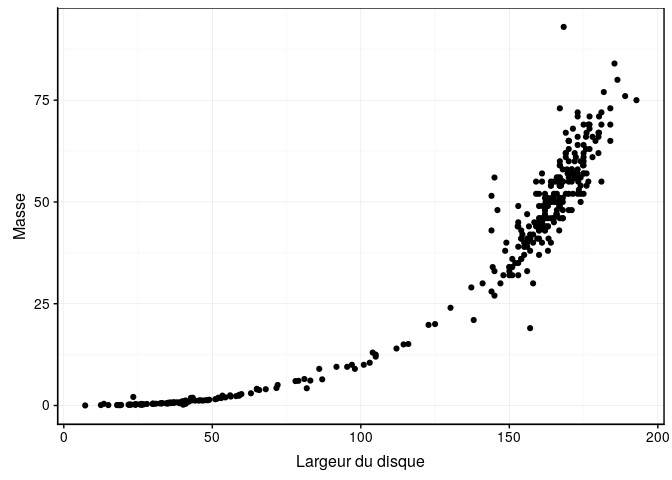
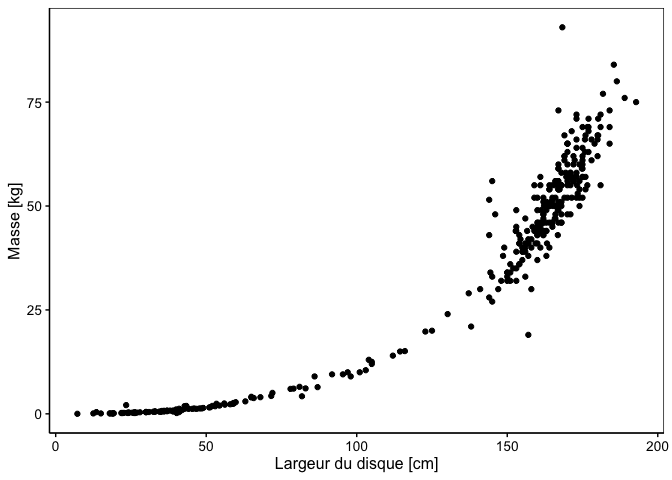
Relecture

diff --git a/README.md b/README.md
@@ -1,4 +1,5 @@
-Modélisation de la masse de raie à partir de la largeur du disque.
+Modélisation de la masse de la raie *Mobula thursoni* à partir de la
+largeur du disque
 ================
 
 <!--- DO NOT EDIT README.MD. EDIT ONLY README.RMD ----->
@@ -6,62 +7,59 @@ Modélisation de la masse de raie à partir de la largeur du disque.
 ## Contexte
 
 Rambahiniarison et son équipe (2018) ont étudié différents espèces de
-raies : *Mobula thurstoni*, *Mobula japanica*, *Mobula tarapacana*, et
-*Manta birostris*.
+raies : *Mobula thurstoni*, *Mobula japanica*, *Mobula tarapacana*,
+*Manta birostris* et *Manta alfredi*.
 
 *Pour en apprendre d’avantages, utilisez la référence présente dans la
 bibliographie.*
 
-Ces chercheurs ont décidé de mettre à dispositon les données relatives à
-cette recherche. Ils ont utilisé la plateforme
-[DRYAD](https://datadryad.org). Les données ont un D.O.I. et sont
-disponible via l’URL suivant <https://doi.org/10.5061/dryad.f3bm7>.
+Ces chercheurs ont décidé de mettre à disposition les données relatives
+à cette recherche. Ils ont utilisé la plateforme
+[DRYAD](https://datadryad.org). Les données ont un DOI et sont
+disponibles via l’URL suivante <https://doi.org/10.5061/dryad.f3bm7>.
 
-Les données brutes se trouve `data/raw`. Ces données sont les données
-brutes proposées par DRYAD. Les données de travail conseillés se nomme
-`data/growth.rds`. Ce jeu de données est obtenu avec le script R
-`dataset.R`
+Les données brutes se trouvent dans `data/raw`. Ces données sont telles
+que proposées par DRYAD. Les données de travail conseillées sont dans le
+fichier `data/growth.rds`. Ce jeu de données remanié est obtenu à l’aide
+du script R `dataset.R`
 
 ## Objectifs
 
 Utilisez les outils de modélisation afin de modéliser la masse de
-*Mobula thurstoni* en fonction de la largeur du disque.
-
-La figure ci-dessus présente la masse de *Mobula thurstoni* en fonction
-de la largeur du disque.
+*Mobula thurstoni* en fonction de la largeur du disque (voir figure
+ci-dessous).
 
 ``` r
 read("data/growth.rds") %>.%
   chart(., body_weight ~ dw) +
   geom_point() +
-  labs(y = "Masse", x = "Largeur du disque")
+  labs(y = "Masse [kg]", x = "Largeur du disque [cm]")
 ```
 
 ![Variation de la masse en fonction de la largeur du disque de *M.
-thurstoni* (n=1958).](README_files/figure-gfm/unnamed-chunk-1-1.png)
+thurstoni* (n = 1958).](README_files/figure-gfm/unnamed-chunk-1-1.png)
 
 Utilisez les outils du module 1 à 4 du cours en ligne
 <http://biodatascience-course.sciviews.org/sdd-umons2/>
 
 ## Consignes
 
-Proposez un projet portable dont l’ensemble des fichiers sont
-exécutables. L’ensemble de ces fichiers doit être organisé. Soyez
-attentif à donner des noms corrects à vos fichiers.
+Proposez un projet portable dont tous les fichiers sont exécutables.
+L’ensemble de ces fichiers doit être organisé. Soyez attentif à donner
+des noms corrects à vos fichiers.
 
-Ce projet doit contenir au minimum 2 fichiers dont un carnet de notes
+Ce projet doit contenir au minimum deux fichiers dont un carnet de notes
 (**growth\_notes.Rmd**) et un rapport scientifique
 (**growth\_reports.Rmd**).
 
 ### Carnet de notes
 
-Le carnet de notes doit débuter par une mise en contexte du carnet de
-notes. Chaque carnet de notes doit débuter par une mise en contexte qui
-explique l’objectif de ce dernier. Le carnet de notes contient
-l’ensemble des réflexions sur une thématique précise.
+Le carnet de notes doit débuter par une mise en contexte qui explique
+l’objectif de ce dernier. Le carnet de notes contient l’ensemble des
+réflexions sur une thématique précise.
 
 Ce carnet de notes doit comprendre une section pour chaque module
-utilisées du cours.
+utilisés du cours.
 
 ### Rapport scientifique
 
@@ -72,17 +70,17 @@ les plus utiles du carnet de notes.
 Le rapport scientifique doit être compréhensible sans devoir lire le
 carnet de notes.
 
-La section introduction doit comprendre une description sur l’espèce
-d’intérêt et le contexte de l’expérience.
+La section introduction doit comprendre une (courte) description sur
+l’espèce d’intérêt et le contexte de l’expérience.
 
 Le rapport doit comprendre un but court qui résume la question de
 recherche de ce rapport scientifique.
 
-Le rapport doit comprendre un matériel et méthode complet. Un M\&M
-complet comprend une explication sur les données. Il doit également
-comprendre une description des techniques statistiques employées dans ce
-rapport. Enfin, il doit comprendre une description des outils et des
-versions de ces derniers.
+Le rapport doit comprendre un matériel et méthode complet, y compris une
+explication sur les données. Il doit également comprendre une
+description des techniques statistiques employées dans ce rapport.
+Enfin, il doit comprendre une description des outils et des versions de
+ces derniers.
 
 La section résultat de votre rapport scientifique doit comprendre des
 graphiques, des tableaux et un/des modèle(s) sélectionné(s)
@@ -93,7 +91,7 @@ La section discussion doit comprendre une discussion de vos résultats.
 Ne confondez pas la description et la discussion de vos analyses.
 
 Utilisez la grille d’évaluation pour vous assurer que votre projet est
-complet.
+complet avant de le soumettre.
 
 ## Notes
 
